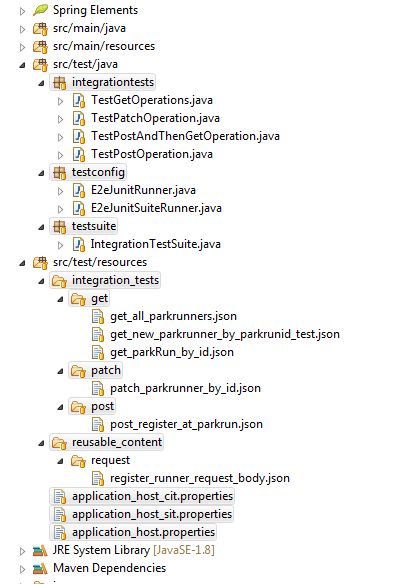
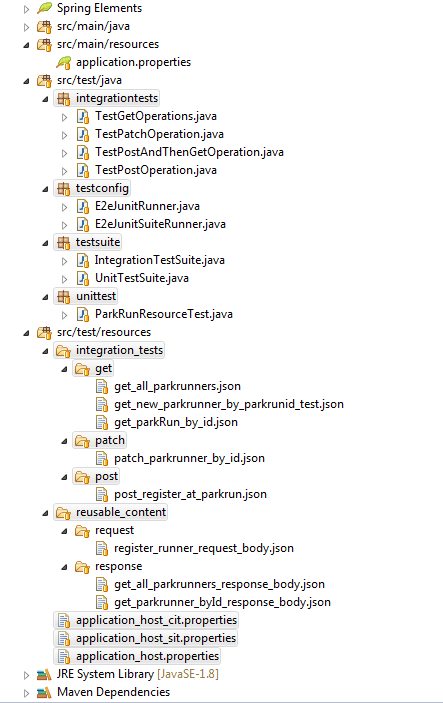
code refactor, readme update

Changed region(s): [[0.0, 0.0, 1.0, 1.0]]

diff --git a/src/main/java/com/xp/springboot/exception/GlobalExceptionHandler.java b/src/main/java/com/xp/springboot/exception/GlobalExceptionHandler.java
@@ -5,6 +5,12 @@ import org.springframework.http.ResponseEntity;
 import org.springframework.web.bind.annotation.ControllerAdvice;
 import org.springframework.web.bind.annotation.ExceptionHandler;
 
+/**
+ * 
+ * @author Neeraj Sidhaye
+ *
+ */
+
 @ControllerAdvice
 public class GlobalExceptionHandler {
 

diff --git a/src/test/java/testconfig/E2eJunitSuiteRunner.java b/src/test/java/testconfig/E2eJunitSuiteRunner.java
@@ -5,6 +5,11 @@ import org.junit.runners.model.InitializationError;
 
 import com.xp.springboot.application.SpringBootMainApplication;
 
+/**
+ * 
+ * @author Neeraj Sidhaye
+ *
+ */
 public class E2eJunitSuiteRunner extends ZeroCodePackageRunner {
 
     static{

diff --git a/src/test/java/integrationtests/TestGetOperations.java b/src/test/java/integrationtests/TestGetOperations.java
@@ -7,6 +7,12 @@ import org.junit.runner.RunWith;
 
 import testconfig.E2eJunitRunner;
 
+/**
+ * 
+ * @author Neeraj Sidhaye
+ *
+ */
+
 @TargetEnv("application_host.properties")
 @RunWith(E2eJunitRunner.class)
 public class TestGetOperations {

diff --git a/README.md b/README.md
@@ -47,7 +47,8 @@ e.g.
                   <goal>verify</goal>
                   <configuration>
                     <includes>
-                      <include>integrationtests.IntegrationTestSuite.java</include>
+                      <include>testsuite.IntegrationTestSuite.java</include>
+                      <include>testsuite.UnitTestSuite.java</include>
                     </includes>
                  </configuration>
               </goals>
@@ -154,7 +155,7 @@ Find detailed TEST Reports (zerocode-junit-interactive-fuzzy-search.html) and lo
 Refer to steps 1 to 10 on my article, to follow preferred build pipeline approach to get BEST out of ZeroCode and TDD combination!
 
 https://medium.com/@bethecodewithyou/develop-zerodefect-apis-with-zerocode-cadd9dc2a430
-OR at  https://extremeportal.blogspot.com/2018/10/zerodefect-rest-apis-with-zerocode.html
+OR at  https://extremeportal.blogspot.com/2018/10/develop-zerodefect-apis-with-zerocode.html
 
 
 [How do I do integration testing of a spring boot application]: https://github.com/authorjapps/spring-boot-integration-test#spring-boot-integration-test
